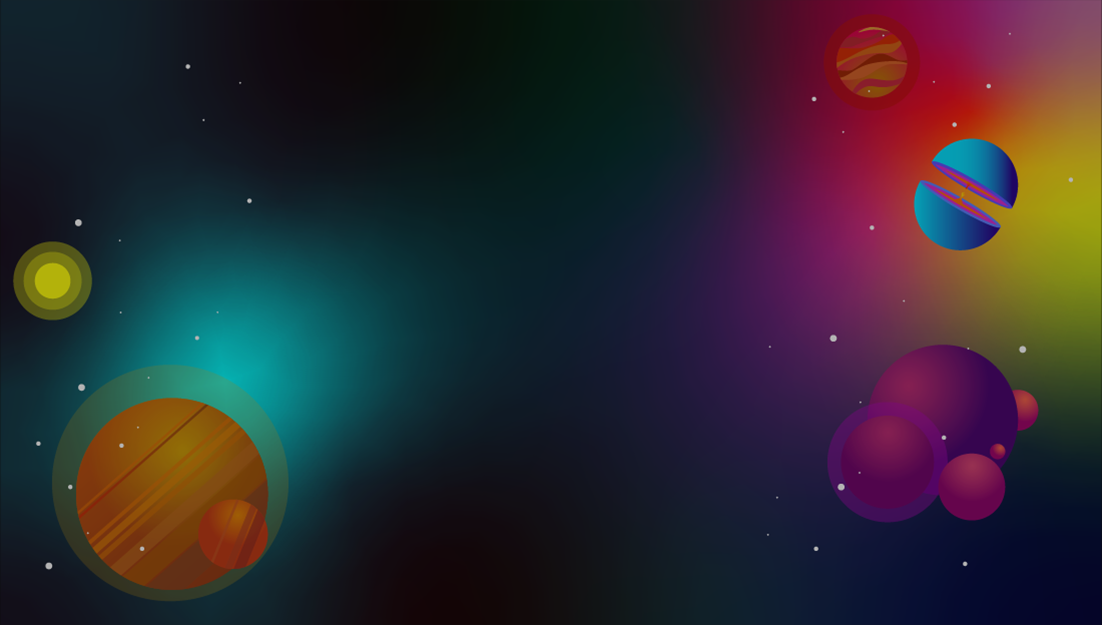
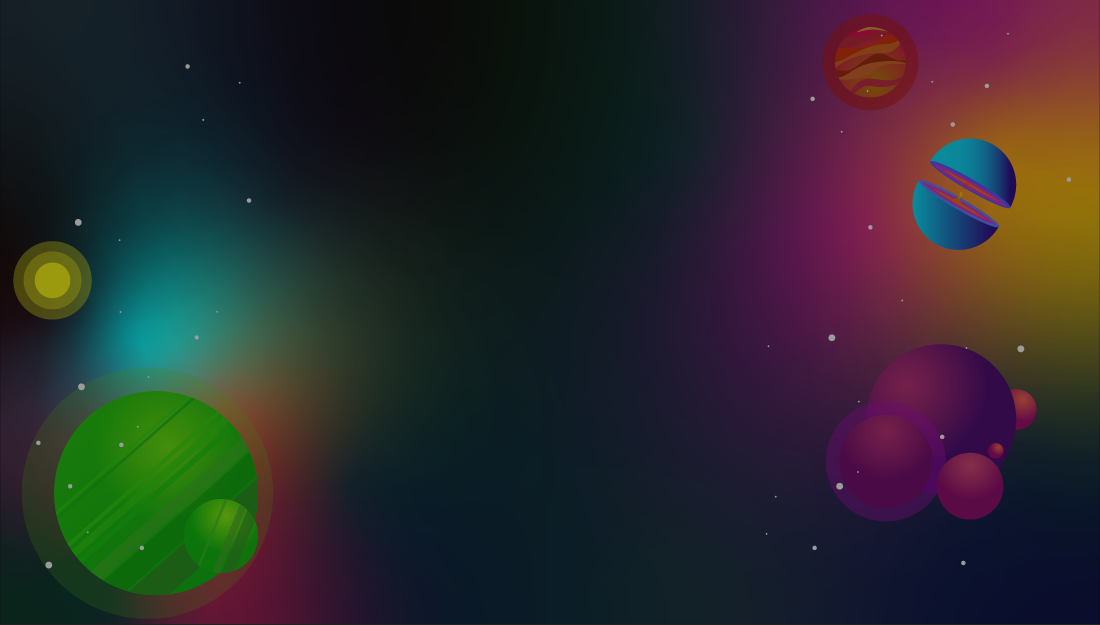
auto play update , background update

Changed region(s): [[0.0, 0.3648, 0.4945, 1.0], [0.7109, 0.0, 1.0, 0.5776], [0.0309, 0.456, 0.0618, 0.4864]]

diff --git a/src/gameplay/ShowHitScores.java b/src/gameplay/ShowHitScores.java
@@ -19,8 +19,11 @@ public class ShowHitScores {
 
     private long[] timeShow;
 
-    public ShowHitScores(Handler handler){
+    private PhysicalKey[] ArrayLetters;
+
+    public ShowHitScores(Handler handler, PhysicalKey[] ArrayLetters){
         this.handler = handler;
+        this.ArrayLetters = ArrayLetters;
 
         showHitScore = new int[26];
         Xvalues = new int[26];
@@ -70,8 +73,12 @@ public class ShowHitScores {
             if(showHitScore[i] != -1){
                 if(timeShow[i] - Game.stopWatch.getTime() >= 0){
                     g2d.drawImage(scoreImage[i], Xvalues[i] + (64 / 2) - 15, Game.REDLINESY + (64 / 8) + 10 - 8, null);
+                    g2d.drawImage(ArrayLetters[i].getPY_Key_img_h(), (int) ArrayLetters[i].getX()
+                            ,(int) ArrayLetters[i].getY(), null);
                 } else{
                     showHitScore[i] = -1;
+                    g2d.drawImage(ArrayLetters[i].getPY_Key_img_b(), (int) ArrayLetters[i].getX()
+                            ,(int) ArrayLetters[i].getY(), null);
                 }
             }
         }

diff --git a/src/gameplay/Game.java b/src/gameplay/Game.java
@@ -58,8 +58,6 @@ public class Game extends JPanel implements Runnable, MouseListener, MouseMotion
     private String selectedSong;
     private boolean checkAutoMode;
 
-    private Font buttonsFont;
-
     private Rectangle2D rect1;
     private int x1, y1;
     private int width1, height1;
@@ -123,7 +121,7 @@ public class Game extends JPanel implements Runnable, MouseListener, MouseMotion
 
         spawn = new Spawn(handler, LettersTiming, checkAutoMode);
 
-        showHitScores = new ShowHitScores(handler);
+        showHitScores = new ShowHitScores(handler, ArrayLetters);
 
         song = new MusicPlayer("res/songs/" + selectedSong + ".wav");
         try {
@@ -131,8 +129,6 @@ public class Game extends JPanel implements Runnable, MouseListener, MouseMotion
         } catch (Exception e) {
             e.printStackTrace();
         }
-
-        buttonsFont = new Font("Arial", Font.PLAIN, 25);
 
         width1 = 155;
         height1 = 60;

diff --git a/src/gameplay/PhysicalKey.java b/src/gameplay/PhysicalKey.java
@@ -31,7 +31,6 @@ public class PhysicalKey extends GameObject{
         heightY = 5;
         heightG = 5;
         heightB = rectHeight - heightR - heightY - heightG;
-
     }
 
     @Override
@@ -81,5 +80,23 @@ public class PhysicalKey extends GameObject{
 
     public char getC() {
         return c;
+    }
+
+    @Override
+    public float getX() {
+        return super.getX();
+    }
+
+    @Override
+    public float getY() {
+        return super.getY();
+    }
+
+    public BufferedImage getPY_Key_img_b() {
+        return PY_Key_img_b;
+    }
+
+    public BufferedImage getPY_Key_img_h() {
+        return PY_Key_img_h;
     }
 }
